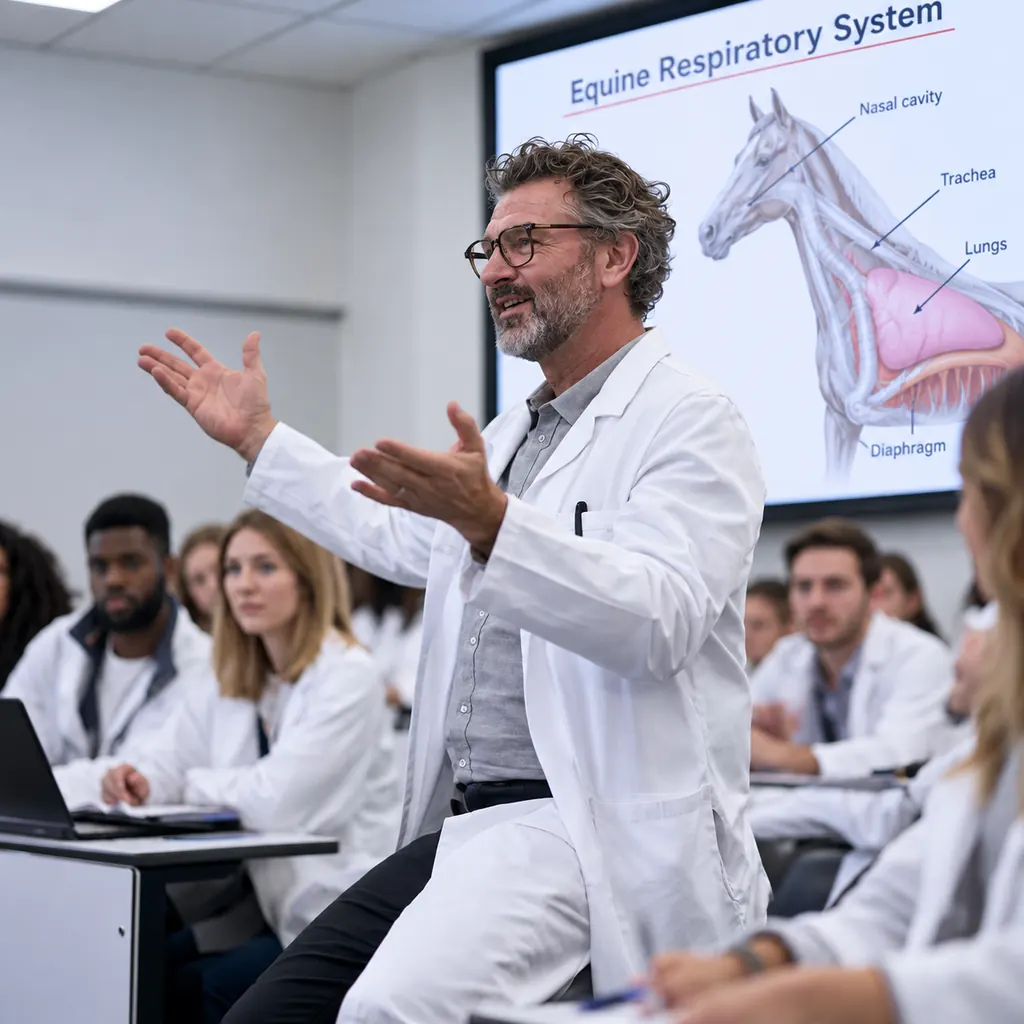
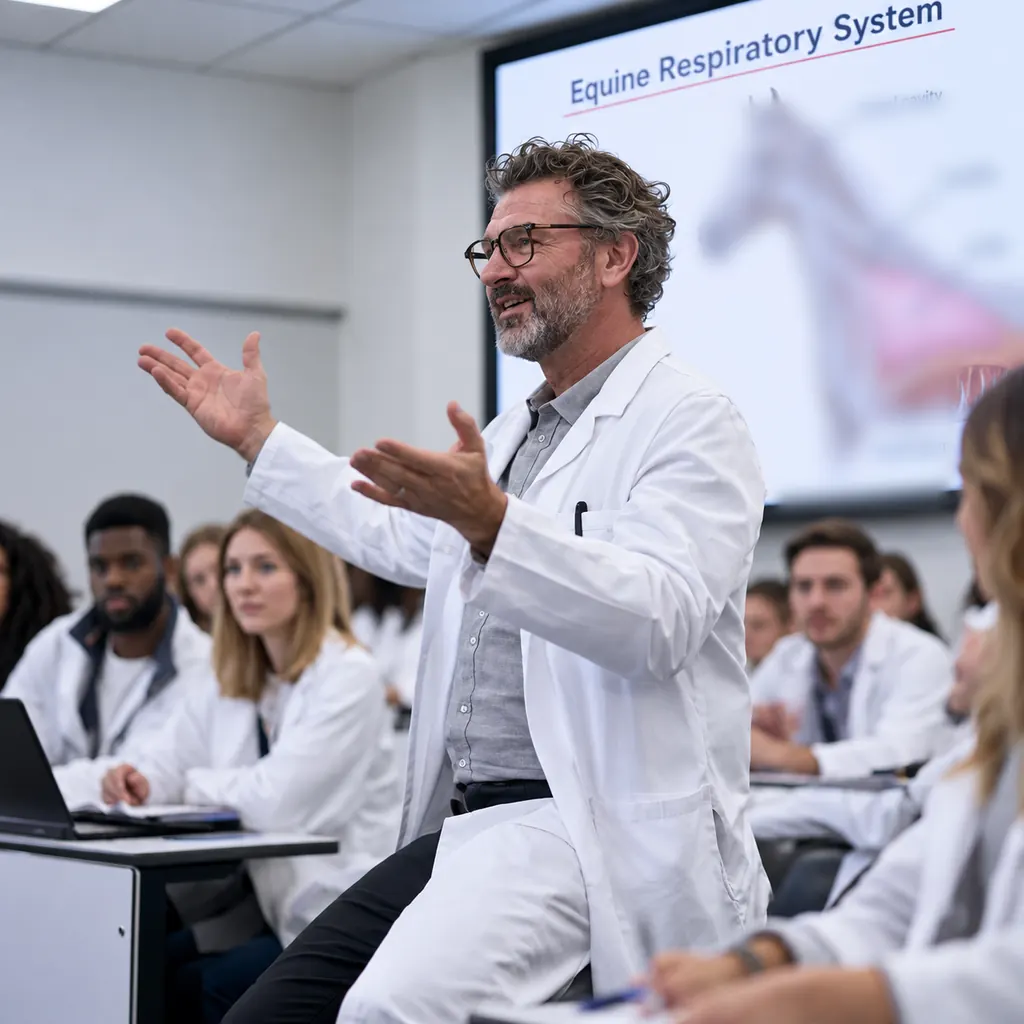
style(vai.vet): blur the horse illustration on the screen in the About academy picture (founder-requested)
seminar-discussion: the horse illustration and its labels on the projected slide are now softly defocused (feathered mask, Gaussian blur); the educator, his coat, the title, the students and the foreground hair stay sharp. Image version bumped to 20261010b so browsers and the CDN fetch the new files.

diff --git a/src/lib/photography/library.ts b/src/lib/photography/library.ts
@@ -39,8 +39,8 @@ export interface PhotoEntry {
 
 export const PHOTO_WIDTHS = [480, 800, 1024] as const;
 export const PHOTO_BASE = '/photography/library';
-/** Bump when library files are replaced in place: it is appended to every image URL (?v=) so browsers and the CDN fetch the new files instead of serving a cached copy for hours. Last bump: 2026-10-10, the founder's edited versions of the same pictures. */
-export const PHOTO_VERSION = '20261010';
+/** Bump when library files are replaced in place: it is appended to every image URL (?v=) so browsers and the CDN fetch the new files instead of serving a cached copy for hours. Last bump: 2026-10-10 (b), the horse illustration on the screen in seminar-discussion was blurred at the founder's request. */
+export const PHOTO_VERSION = '20261010b';
 
 
 
@@ -80,7 +80,7 @@ export const PHOTOS: readonly PhotoEntry[] = [
   { id: 'professor-seminar', use: 'education', ready: true, alt: 'A professor in a white coat discussing a case with seated students', focus: { portrait: '52% 50%', landscape: '50% 34%' } },
   { id: 'clinic-floor-dogs', use: 'animal', ready: true, alt: 'Veterinary staff and a vet examining dogs together on a clinic floor', focus: { portrait: '44% 50%', landscape: '50% 45%' } },
   { id: 'man-archive-papers', use: 'editorial', ready: true, alt: 'A professional holding papers among stacks of documents in an old library', focus: { portrait: '50% 50%', landscape: '50% 38%' } },
-  { id: 'seminar-discussion', use: 'education', ready: true, alt: 'A veterinary educator in a white coat gesturing mid-discussion with students around a seminar table', focus: { portrait: '54% 50%', landscape: '50% 30%' } },
+  { id: 'seminar-discussion', use: 'education', ready: true, alt: 'A veterinary educator in a white coat gesturing mid-discussion with students around a seminar table', focus: { portrait: '54% 50%', landscape: '50% 30%' }, note: 'The horse illustration on the screen is deliberately blurred (founder request, 2026-10-10); the title, the educator and the students are sharp.' },
 
   // ---- reserve: processed on demand (scripts/photo-library/build-library.py --ids ...) ---------------------------------------------
   { id: 'woman-dog-classroom', use: 'animal', ready: false, alt: 'A woman holding a small dog in a teaching room', focus: { portrait: '58% 50%', landscape: '50% 40%' }, note: 'Garbled "Veterinary Class" writing on the board behind her; crop cannot remove it cleanly.' },
